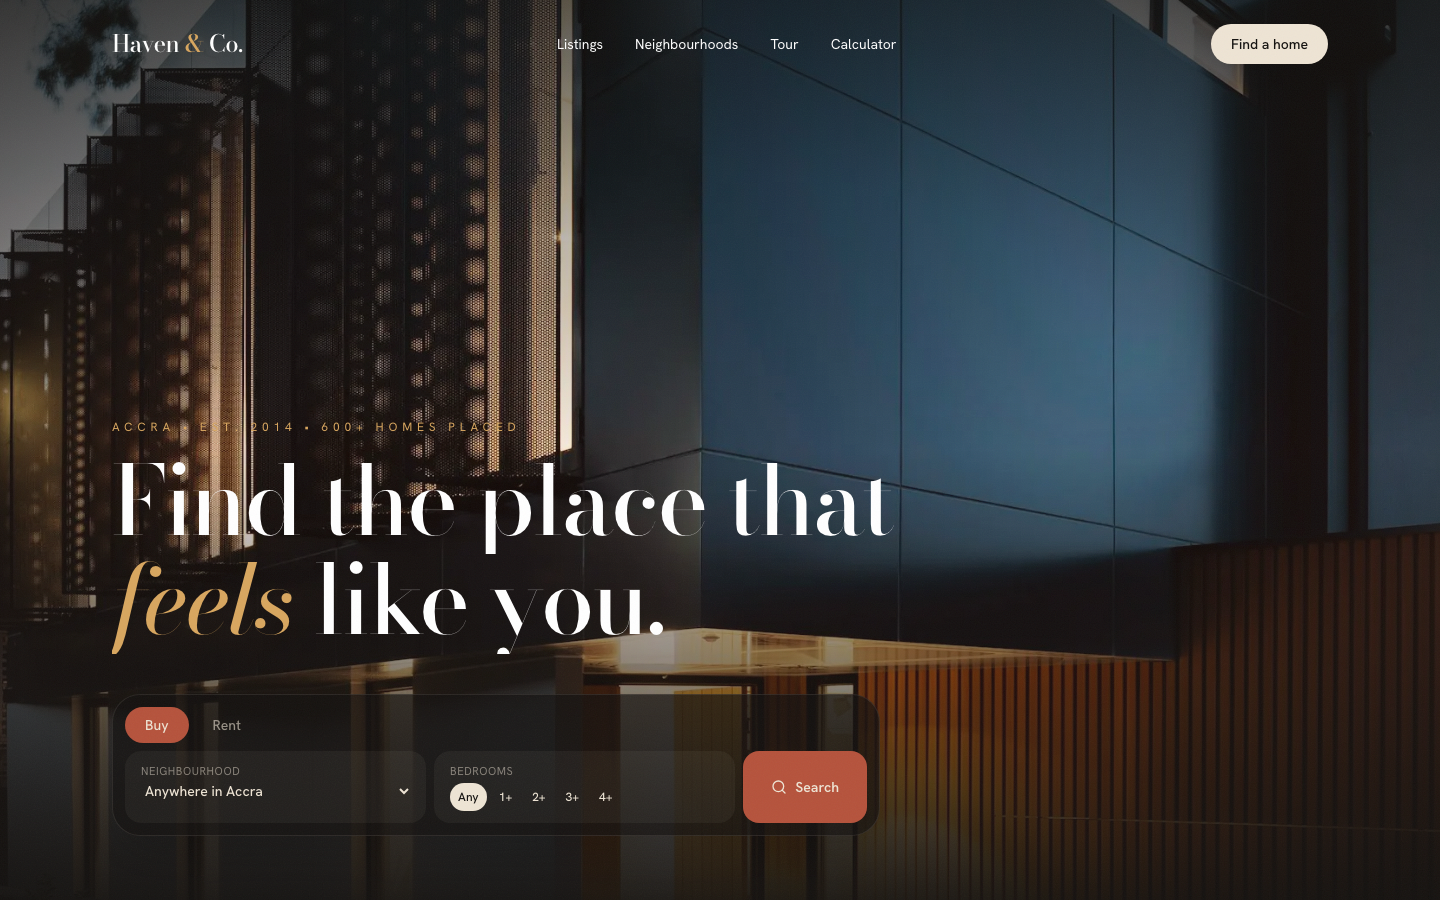
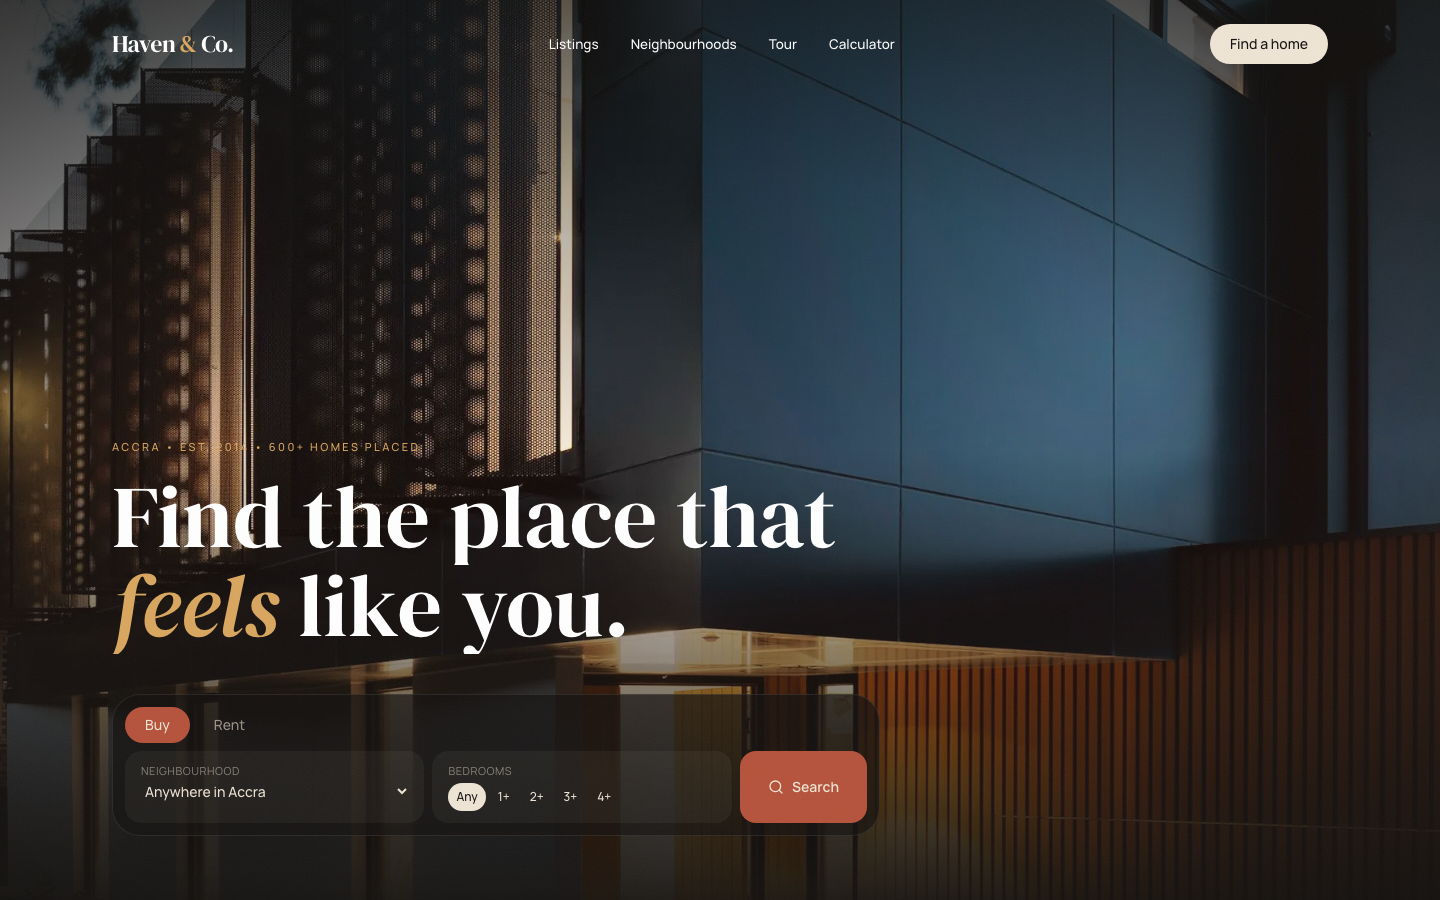
Refresh Haven thumbnail and type credit

diff --git a/app/projects/haven/page.tsx b/app/projects/haven/page.tsx
@@ -24,7 +24,7 @@ export default function HavenCaseStudy() {
         { label: "Tools", value: "Filters, compare, calculator" },
         { label: "Booking", value: "Viewing scheduler" },
       ]}
-      stack={["Next.js 16", "TypeScript", "Tailwind CSS 4", "Framer Motion", "Bodoni Moda + Hanken Grotesk"]}
+      stack={["Next.js 16", "TypeScript", "Tailwind CSS 4", "Framer Motion", "DM Serif Display + Manrope"]}
       sections={[
         {
           title: "The experience",
